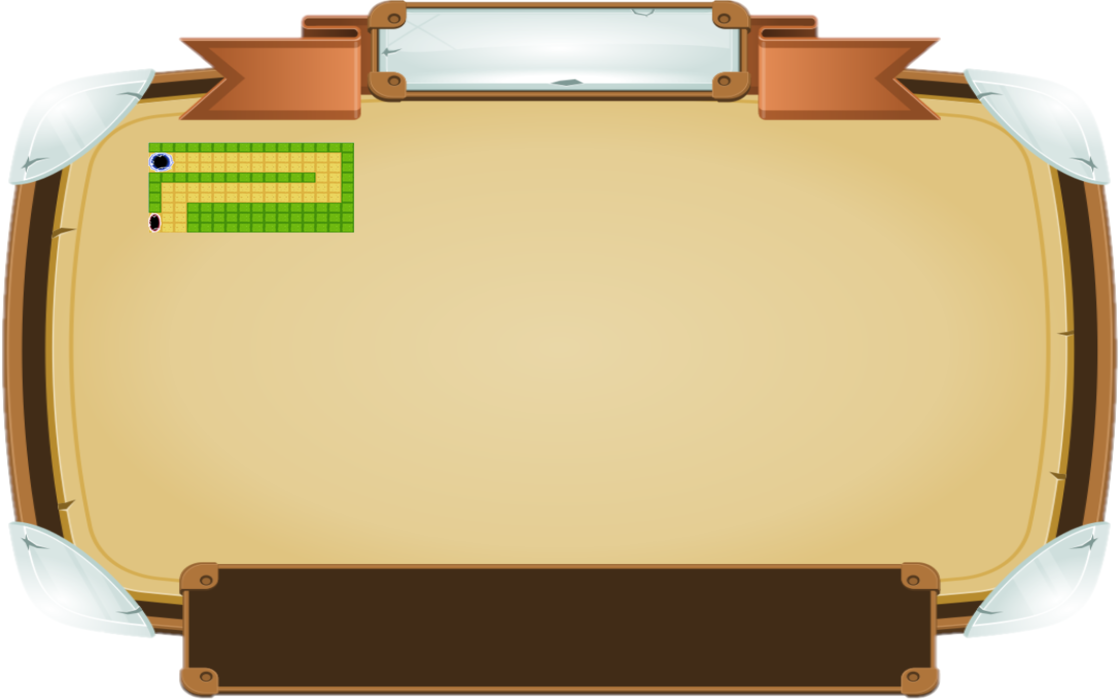
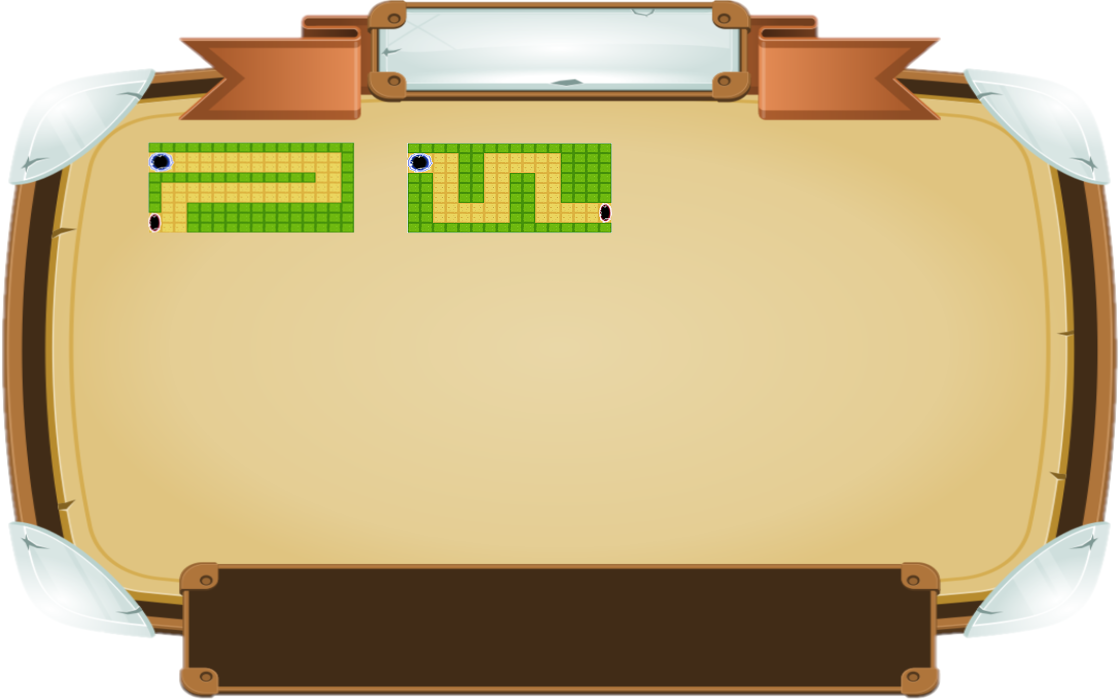
some messs

Changed region(s): [[0.3438, 0.18, 0.5625, 0.33]]

diff --git a/src/mrmathami/thegame/GameController.java b/src/mrmathami/thegame/GameController.java
@@ -48,8 +48,8 @@ import java.util.concurrent.TimeUnit;
  * A game controller. Everything about the game should be managed in here.
  */
 public final class GameController extends AnimationTimer {
-	public double xMouse;
-	public double yMouse;
+	private double xMouse;
+	private double yMouse;
 	/**
 	 * Advance stuff. Just don't touch me. Google me if you are curious.
 	 */
@@ -64,16 +64,16 @@ public final class GameController extends AnimationTimer {
 	/**
 	 * The screen to draw on. Just don't touch me. Google me if you are curious.
 	 */
-	public Stage stageCurrent;
-	public GraphicsContext graphicsContextCurrent;
-	public Canvas canvasCurrent;
-	public Canvas canvasMainMenu;
-	public Scene sceneMainMenu;
-	public GraphicsContext gcMainMenu;
-	public Canvas canvasChooseStage;
-	public Scene sceneChooseStage;
-	public GraphicsContext gcChooseStage;
-	public GameController gameController = this;
+	private Stage stageCurrent;
+	private GraphicsContext graphicsContextCurrent;
+	private Canvas canvasCurrent;
+	private Canvas canvasMainMenu;
+	private Scene sceneMainMenu;
+	private GraphicsContext gcMainMenu;
+	private Canvas canvasChooseStage;
+	private Scene sceneChooseStage;
+	private GraphicsContext gcChooseStage;
+	private GameController gameController = this;
 
 	/**
 	 * Game field. Contain everything in the current game field.
@@ -146,12 +146,16 @@ public final class GameController extends AnimationTimer {
 					try {
 						Image imageMainMenu = new Image(new FileInputStream(".\\res\\image\\chonman.png"));
 						gcChooseStage.drawImage(imageMainMenu, 0, 0);
+						Image home1 = new Image(new FileInputStream(".\\res\\image\\home.png"));
+						home1 = DeleteWhiteImage.deleteWhiteImage2(home1);
+						gcChooseStage.drawImage(home1, 520, 595);
 					}
 					catch (FileNotFoundException e) {
 						System.out.println("Main Menu image not found");
 					}
 					gcChooseStage.setFont(new Font("Time New Roma", 15));
 					gcChooseStage.fillText("Màn 1", 230, 135);
+					gcChooseStage.fillText("Màn 2", 489, 135);
 					gcChooseStage.setFont(new Font("Time New Roma", 50));
 					gcChooseStage.fillText("Stage Select", 425, 63);
 					stageCurrent.show();
@@ -165,10 +169,13 @@ public final class GameController extends AnimationTimer {
 			}
 		});
 		Rectangle rectangleMan1 = new Rectangle(148, 141, 205, 90);
+		Rectangle rectangleMan2 = new Rectangle(407, 141, 205, 90);
+		Rectangle rectangleBack = new Rectangle(520, 595, 70, 70);
 		canvasChooseStage.setOnMousePressed(new EventHandler<MouseEvent>() {
 			@Override
 			public void handle(MouseEvent mouseEvent) {
-				if(rectangleMan1.contains(mouseEvent.getX(), mouseEvent.getY())) {
+				System.out.println(mouseEvent.getX() + " " + mouseEvent.getY());
+				if(rectangleMan1.contains(mouseEvent.getX(), mouseEvent.getY()) || rectangleMan2.contains(mouseEvent.getX(), mouseEvent.getY())) {
 					canvasCurrent = new Canvas(Config.SCREEN_WIDTH, Config.SCREEN_HEIGHT);
 					graphicsContextCurrent = canvasCurrent.getGraphicsContext2D();
 
@@ -198,7 +205,12 @@ public final class GameController extends AnimationTimer {
 
 					// The game field. Please consider create another way to load a game field.
 					// TODO: I don't have much time, so, spawn some wall then :)
-					gameController.field = new GameField(GameStage.load("/stage/Man1.txt"));
+					if(rectangleMan1.contains(mouseEvent.getX(), mouseEvent.getY())) {
+						gameController.field = new GameField(GameStage.load("/stage/Man1.txt"));
+					}
+					else if(rectangleMan2.contains(mouseEvent.getX(), mouseEvent.getY())) {
+						gameController.field = new GameField(GameStage.load("/stage/Man2.txt"));
+					}
 
 					// The drawer. Nothing fun here.
 					gameController.drawer = new GameDrawer(graphicsContextCurrent, field);
@@ -210,6 +222,14 @@ public final class GameController extends AnimationTimer {
 					drawer.setFieldViewRegion(0.0, 0.0, Config.TILE_SIZE);
 					start();
 				}
+				else if(rectangleBack.contains(mouseEvent.getX(), mouseEvent.getY())) {
+					isPause = false;
+					stageCurrent.setScene(sceneMainMenu);
+					canvasCurrent = canvasMainMenu;
+					graphicsContextCurrent = gcMainMenu;
+					stop();
+				}
+
 			}
 		});
 	}
@@ -274,7 +294,9 @@ public final class GameController extends AnimationTimer {
 		final long currentTick = tick;
 		final long startNs = System.nanoTime();
 		if(graphicsContextCurrent != gcMainMenu) {
-			autoPlay();
+			if(dangauto == true) {
+				autoPlay();
+			}
 			// do a tick, as fast as possible
 			field.tick();
 
@@ -293,7 +315,12 @@ public final class GameController extends AnimationTimer {
 			//graphicsContextCurrent.fillText(String.format("MSPT: %3.2f", mspt), 0, 12);
             graphicsContextCurrent.setFont(new Font("Time New Roman", 60));
 			graphicsContextCurrent.fillText((int)(field.getCoins()) + "", 7*Config.TILE_SIZE + 5, 10*Config.TILE_SIZE - 12);
-
+			if(dangauto == false) {
+				graphicsContextCurrent.setFill(Color.BLACK);
+			}
+			else graphicsContextCurrent.setFill(Color.RED);
+			graphicsContextCurrent.setFont(new Font("Time New Roman", 40));
+			graphicsContextCurrent.fillText("AUTO", 13*Config.TILE_SIZE + 20, 10*Config.TILE_SIZE - 20);
 			if(isChooseTower) {
 				double Xgoc = xMouse - Config.TILE_SIZE/2.0;
 				double Ygoc = yMouse - Config.TILE_SIZE/2.0;
@@ -350,7 +377,7 @@ public final class GameController extends AnimationTimer {
 					if(((AbstractSpawner) entity).getNumOfSpawn() > 0) isHaveSpawner = true;
 				}
 			}
-			System.out.println(isHaveSpawner);
+
 			if(isHaveSpawner == false)
 			{
 				isPause = false;
@@ -365,7 +392,7 @@ public final class GameController extends AnimationTimer {
 					home = DeleteWhiteImage.deleteWhiteImage2(home);
 					graphicsContextCurrent.drawImage(home, 517, 307);
                     graphicsContextCurrent.setFont(new Font("Time New Roman", 30));
-                    graphicsContextCurrent.setFill(Color.BLACK);
+                    graphicsContextCurrent.setFill(Color.RED);
                     graphicsContextCurrent.fillText("Bạn đã thắng", 475, 270);
                 }
                 catch (FileNotFoundException e) {}
@@ -381,7 +408,7 @@ public final class GameController extends AnimationTimer {
 					home = DeleteWhiteImage.deleteWhiteImage2(home);
 					graphicsContextCurrent.drawImage(home, 517, 307);
                     graphicsContextCurrent.setFont(new Font("Time New Roman", 30));
-                    graphicsContextCurrent.setFill(Color.BLACK);
+                    graphicsContextCurrent.setFill(Color.WHITE);
                     graphicsContextCurrent.fillText("Bạn đã thua", 475, 270);
                 }
                 catch (FileNotFoundException e) {}
@@ -475,8 +502,8 @@ public final class GameController extends AnimationTimer {
 	private String nameTower = "";
 	private boolean isChooseSell = false;
 	private boolean isPause = false;
+	private boolean dangauto = false;
 	final void mouseDownHandler(MouseEvent mouseEvent) {
-        System.out.println(mouseEvent.getX() + " " + mouseEvent.getY());
 		Rectangle rectangleNormal = new Rectangle(0*Config.TILE_SIZE, 9*Config.TILE_SIZE, Config.TILE_SIZE, Config.TILE_SIZE);
 		Rectangle rectangleMachine = new Rectangle(1*Config.TILE_SIZE, 9*Config.TILE_SIZE, Config.TILE_SIZE, Config.TILE_SIZE);
 		Rectangle rectangleSniper = new Rectangle(2*Config.TILE_SIZE, 9*Config.TILE_SIZE, Config.TILE_SIZE, Config.TILE_SIZE);
@@ -485,6 +512,7 @@ public final class GameController extends AnimationTimer {
 		Rectangle rectangleResume = new Rectangle(472, 177, 172, 80);
 		Rectangle rectangleExit = new Rectangle(472, 456, 172, 80);
 		Rectangle rectangleHome = new Rectangle(517, 307, 70, 70);
+		Rectangle rectangleAuto = new Rectangle(13*Config.TILE_SIZE, 9*Config.TILE_SIZE, 2*Config.TILE_SIZE, Config.TILE_SIZE);
 		if(rectangleNormal.contains(mouseEvent.getX(),mouseEvent.getY())) {
 			nameTower = "NormalTower";
 			isChooseTower = true;
@@ -510,12 +538,20 @@ public final class GameController extends AnimationTimer {
 			if(isPause) {
 				isPause = false;
 				stageCurrent.setScene(sceneMainMenu);
+				canvasCurrent = canvasMainMenu;
+				graphicsContextCurrent = gcMainMenu;
 				stop();
 			}
 		} else if(rectangleHome.contains(mouseEvent.getX(), mouseEvent.getY()) && (isHaveSpawner == false || isHaveTarget == false)) {
 			stageCurrent.setScene(sceneMainMenu);
 			canvasCurrent = canvasMainMenu;
 			graphicsContextCurrent = gcMainMenu;
+		}
+		else if(rectangleAuto.contains(mouseEvent.getX(), mouseEvent.getY())) {
+			if(dangauto == true) {
+				dangauto = false;
+			}
+			else dangauto = true;
 		}
 
 

diff --git a/src/mrmathami/thegame/GameStage.java b/src/mrmathami/thegame/GameStage.java
@@ -18,6 +18,11 @@ public final class GameStage {
 	private final long height;
 	private final long numOfTitles;
 	public static List<List<Integer>> map = new ArrayList<List<Integer>>();
+	private static double coins;
+
+	public double getCoins() {
+		return coins;
+	}
 
 	@Nonnull
 	private final List<GameEntity> entities;
@@ -29,14 +34,7 @@ public final class GameStage {
 		System.out.println("Width: " + width + ",Height: " + height + ",Num of Titles: " + numOfTitles);
 
 		this.entities = List.copyOf(entities);
-		for(int i =0; i < map.size(); i++)
-		{
-			for(int j =0; j < map.get(i).size();j++)
-			{
-				System.out.print(map.get(i).get(j) +" ");
-			}
-			System.out.println();
-		}
+
 
 	}
 
@@ -134,7 +132,10 @@ public final class GameStage {
 								road.setDistance(0.0);
 							}
 						}
-					} else {
+					} else if("Coins".equals(value)) {
+						coins = scanner.nextInt();
+					}
+					else {
 						System.out.println("Unexpected value! Input value: " + value);
 						scanner.nextLine();
 //						throw new InputMismatchException("Unexpected value! Input value: " + value);

diff --git a/src/mrmathami/thegame/drawer/SmallerEnemyDrawer.java b/src/mrmathami/thegame/drawer/SmallerEnemyDrawer.java
@@ -19,7 +19,7 @@ public final class SmallerEnemyDrawer implements EntityDrawer {
 		try {
 			AbstractEnemy enemy = (AbstractEnemy) entity;
 			graphicsContext.setFill(Color.GREEN);
-			graphicsContext.fillRect(screenPosX, screenPosY -20, ((double)enemy.getHealth() /(double)Config.SMALLER_ENEMY_HEALTH )* Config.TILE_SIZE,14);
+			graphicsContext.fillRect(screenPosX, screenPosY -20, ((double)enemy.getHealth() /(double)Config.SMALLER_ENEMY_HEALTH )* Config.TILE_SIZE*Config.SMALLER_ENEMY_SIZE,14);
 			Image image = new Image(new FileInputStream(".\\res\\image\\SmallerEnemy.png"));
 			Image image1 = DeleteWhiteImage.deleteWhiteImage(image);
 			graphicsContext.drawImage(image1, screenPosX, screenPosY);

diff --git a/src/mrmathami/thegame/drawer/NormalEnemyDrawer.java b/src/mrmathami/thegame/drawer/NormalEnemyDrawer.java
@@ -24,7 +24,7 @@ public final class NormalEnemyDrawer implements EntityDrawer {
 		try {
 			AbstractEnemy enemy = (AbstractEnemy) entity;
 			graphicsContext.setFill(Color.GREEN);
-			graphicsContext.fillRect(screenPosX, screenPosY -20, ((double)enemy.getHealth() /(double) Config.NORMAL_ENEMY_HEALTH )*Config.TILE_SIZE,14);
+			graphicsContext.fillRect(screenPosX, screenPosY -20, ((double)enemy.getHealth() /(double) Config.NORMAL_ENEMY_HEALTH )*Config.TILE_SIZE*Config.NORMAL_ENEMY_SIZE,14);
 			Image image = new Image(new FileInputStream(".\\res\\image\\NormalEnemy.png"));
 			Image image1 = DeleteWhiteImage.deleteWhiteImage(image);
 			graphicsContext.drawImage(image1, screenPosX, screenPosY);

diff --git a/src/mrmathami/thegame/entity/enemy/AbstractEnemy.java b/src/mrmathami/thegame/entity/enemy/AbstractEnemy.java
@@ -76,7 +76,7 @@ public abstract class AbstractEnemy extends AbstractEntity implements UpdatableE
 			for (double[] deltaDirection : DELTA_DIRECTION_ARRAY) {
 				final double currentPosX = enemyPosX + deltaDirection[0] * realSpeed;
 				final double currentPosY = enemyPosY + deltaDirection[1] * realSpeed;
-				System.out.println("currentPosX: " + currentPosX +",currentPosY: "+currentPosY);
+				//System.out.println("currentPosX: " + currentPosX +",currentPosY: "+currentPosY);
 				final double currentDistance = evaluateDistance(overlappableEntities, this, currentPosX, currentPosY, enemyWidth, enemyHeight);
 				if (currentDistance < minimumDistance) {
 					minimumDistance = currentDistance;

diff --git a/src/mrmathami/thegame/drawer/TankerEnemyDrawer.java b/src/mrmathami/thegame/drawer/TankerEnemyDrawer.java
@@ -19,7 +19,7 @@ public final class TankerEnemyDrawer implements EntityDrawer {
 		try {
 			AbstractEnemy enemy = (AbstractEnemy) entity;
 			graphicsContext.setFill(Color.GREEN);
-			graphicsContext.fillRect(screenPosX, screenPosY -20, ((double)enemy.getHealth() /(double)Config.TANKER_ENEMY_HEALTH)*Config.TILE_SIZE,14);
+			graphicsContext.fillRect(screenPosX, screenPosY -20, ((double)enemy.getHealth() /(double)Config.TANKER_ENEMY_HEALTH)*Config.TILE_SIZE*Config.TANKER_ENEMY_SIZE,14);
 			Image image = new Image(new FileInputStream(".\\res\\image\\TankerEnemy.png"));
 			Image image1 = DeleteWhiteImage.deleteWhiteImage(image);
 			graphicsContext.drawImage(image1, screenPosX, screenPosY);

diff --git a/src/mrmathami/thegame/drawer/BossEnemyDrawer.java b/src/mrmathami/thegame/drawer/BossEnemyDrawer.java
@@ -19,7 +19,7 @@ public final class BossEnemyDrawer implements EntityDrawer {
 		try {
 			AbstractEnemy enemy = (AbstractEnemy) entity;
 			graphicsContext.setFill(Color.GREEN);
-			graphicsContext.fillRect(screenPosX, screenPosY -20, ((double)enemy.getHealth()/(double)Config.BOSS_ENEMY_HEALTH)*Config.TILE_SIZE,14);
+			graphicsContext.fillRect(screenPosX, screenPosY -20, ((double)enemy.getHealth()/(double)Config.BOSS_ENEMY_HEALTH)*Config.TILE_SIZE*Config.BOSS_ENEMY_SIZE,14);
 
 			Image image = new Image(new FileInputStream(".\\res\\image\\BossEnemy.png"));
 			Image image1 = DeleteWhiteImage.deleteWhiteImage(image);

diff --git a/src/mrmathami/thegame/GameField.java b/src/mrmathami/thegame/GameField.java
@@ -37,8 +37,7 @@ public final class GameField {
 		this.numOfTitles = gameStage.getNumOfTitles();
 		this.tickCount = 0;
 		entities.addAll(gameStage.getEntities());
-		// Tam thoi coin ban dau la 100
-		this.coins = 100;
+		this.coins = gameStage.getCoins();
 	}
 
 	public final  double getNumOfTitles()
